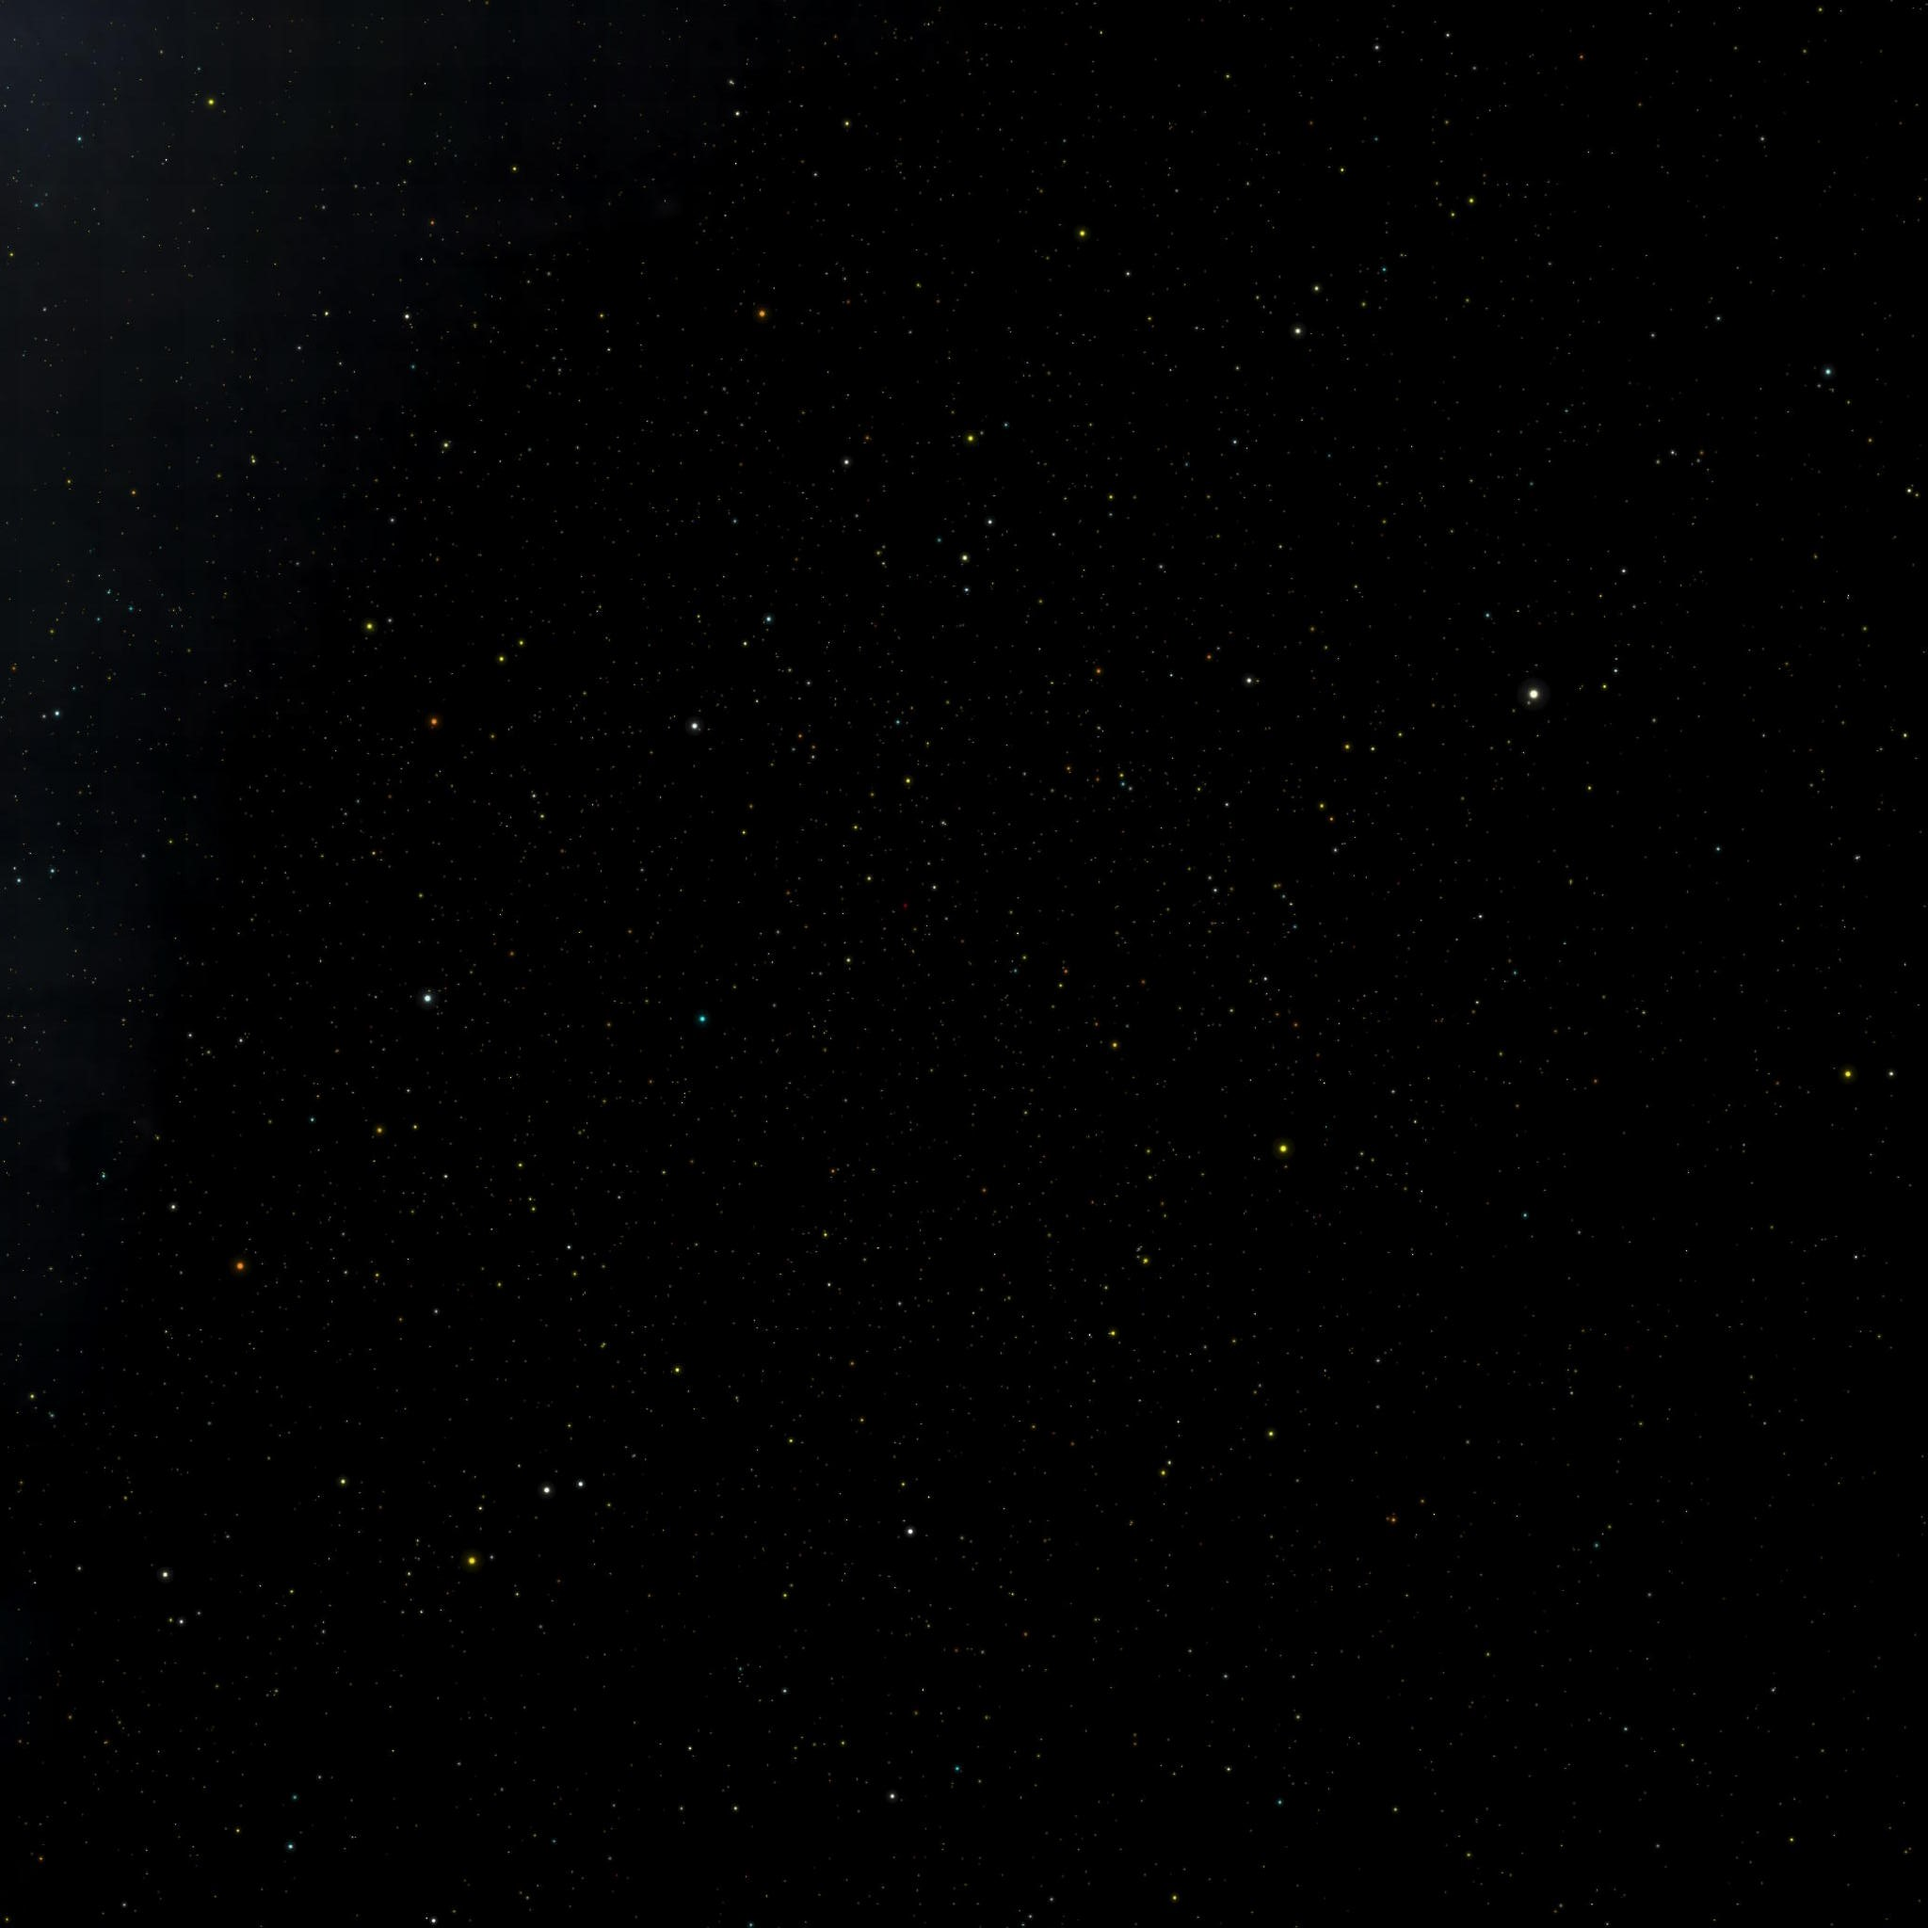
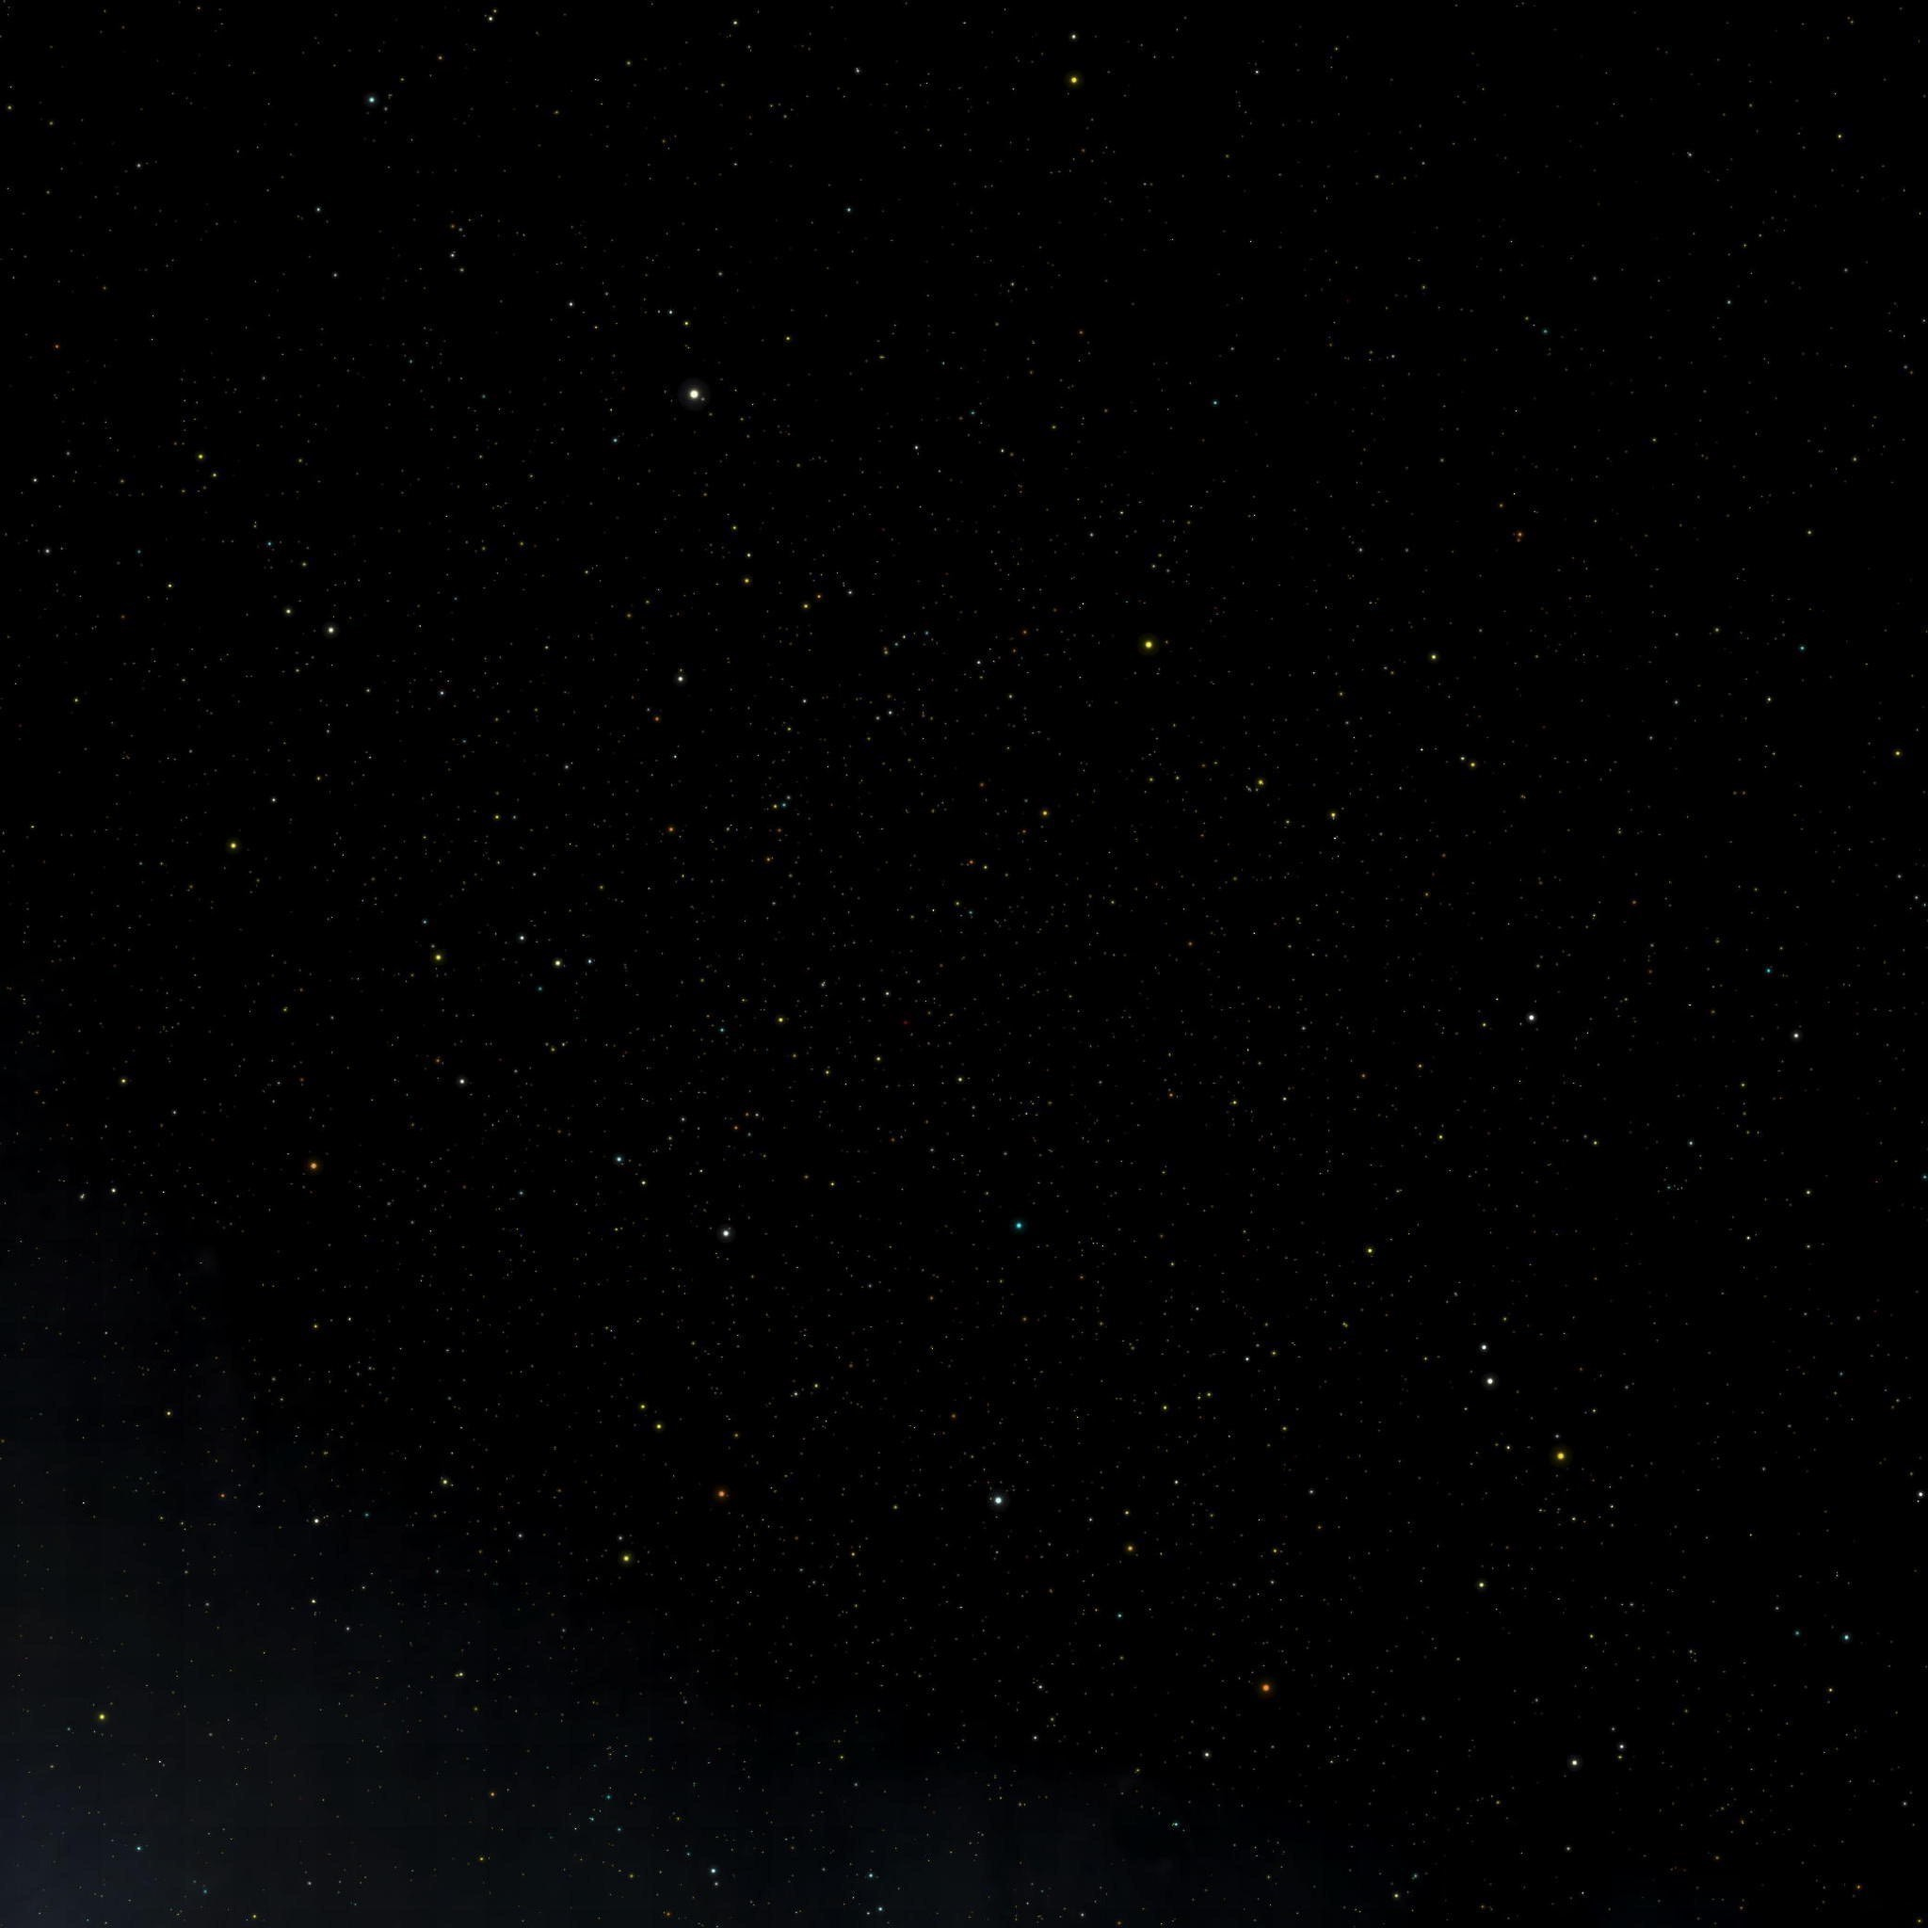
星空图优化版本

Changed region(s): [[0.0, 0.875, 0.125, 1.0], [0.0, 0.0, 0.125, 0.125]]

diff --git a/src/page/sky.jsx b/src/page/sky.jsx
@@ -2,20 +2,20 @@ import React from "react";
 import { createRoot } from "react-dom/client";
 import GisMap from "../code/gisMap";
 import "./index.less";
-import left from "../assets/images/skybox/00h+00.jpg";
-import right from "../assets/images/skybox/12h+00.jpg";
-import top from "../assets/images/skybox/06h-90.jpg";
+import left from "../assets/images/skybox/12h+00.jpg";
+import right from "../assets/images/skybox/00h+00.jpg";
+import top from "../assets/images/skybox/06h+00.jpg";
 // import top from "../assets/images/skybox/top.jpg";
 // import bottom from "../assets/images/skybox/06h+90.jpg";
-import bottom from "../assets/images/skybox/06h+90.jpg";
-import front from "../assets/images/skybox/18h+00.jpg";
-import back from "../assets/images/skybox/06h+00.jpg";
+import bottom from "../assets/images/skybox/18h+00.jpg";
+import front from "../assets/images/skybox//06h+90.jpg";
+import back from "../assets/images/skybox/06h-90.jpg";
 window["CESIUM_BASE_URL"] = "/static/Cesium";
 const gisMap = new GisMap("cesium");
 gisMap.setView({
-  latitude: 40,
-  longitude: 120,
-  height: 200000000,
+  latitude: 0,
+  longitude: 0,
+  height: 100000000,
   heading: 0.0,
   pitc: -90.0,
   roll: 70.0,
@@ -24,7 +24,7 @@ window.gisMap = gisMap;
 gisMap.setSky([right, left, front, back, bottom, top]);
 function Content() {
   const setSky = () => {
-    gisMap.setSky([right, left, bottom, top, front, back]);
+    gisMap.setSky([right, left, front, back, bottom, top]);
   };
 
   const clearSky = () => {

diff --git a/src/page/tt.jsx b/src/page/tt.jsx
@@ -1,3 +1,11 @@
+/*
+ * @Author: wengqi wengqi925@163.com
+ * @Date: 2022-08-23 09:17:14
+ * @LastEditors: wengqi wengqi925@163.com
+ * @LastEditTime: 2022-08-24 08:51:00
+ * @FilePath: /GisMap/src/page/tt.jsx
+ * @Description: 这是默认设置,请设置`customMade`, 打开koroFileHeader查看配置 进行设置: https://github.com/OBKoro1/koro1FileHeader/wiki/%E9%85%8D%E7%BD%AE
+ */
 import React from "react";
 import { createRoot } from "react-dom/client";
 import GisMap from "../code/gisMap";
@@ -19,12 +27,18 @@ function Content() {
         <img src={back} alt="" />
         <img src={top} alt="" />
         <img src={front} alt="" />
+        <img src={bottom} alt="" />
         <div className="box-inline">
-          <img src={right} alt="" />
-          <img src={back} alt="" />
+          {/* <img src={back} alt="" /> */}
           <img src={left} alt="" />
-          <img src={front} alt="" />
-          x
+        </div>
+        <div
+          className="box-inline"
+          style={{ width: "400px", top: "0px", left: 0 }}
+        >
+          {/* <img src={back} alt="" /> */}
+          {/* <img src={left} alt="" /> */}
+          <img src={right} alt="" />
         </div>
       </div>
     </>

diff --git a/src/page/index.less b/src/page/index.less
@@ -5,23 +5,23 @@
 }
 
 .box>img {
+    margin-left: 400px;
     width: 100%;
     display: inherit;
 }
 
 .box-inline {
-    height: 200px;
-    width: 800px;
+    height: 400px;
+    width: 1600px;
     position: absolute;
-    top: 0;
-    left: 400px;
+    top: 0px;
+    left: 800px;
     background-color: red;
-    border: 1px solid red;
 }
 
 .box-inline>img {
-    width: 100px;
-    height: 100px;
+    width: 400px;
+    height: 400px;
     display: inline-block;
 }
 
